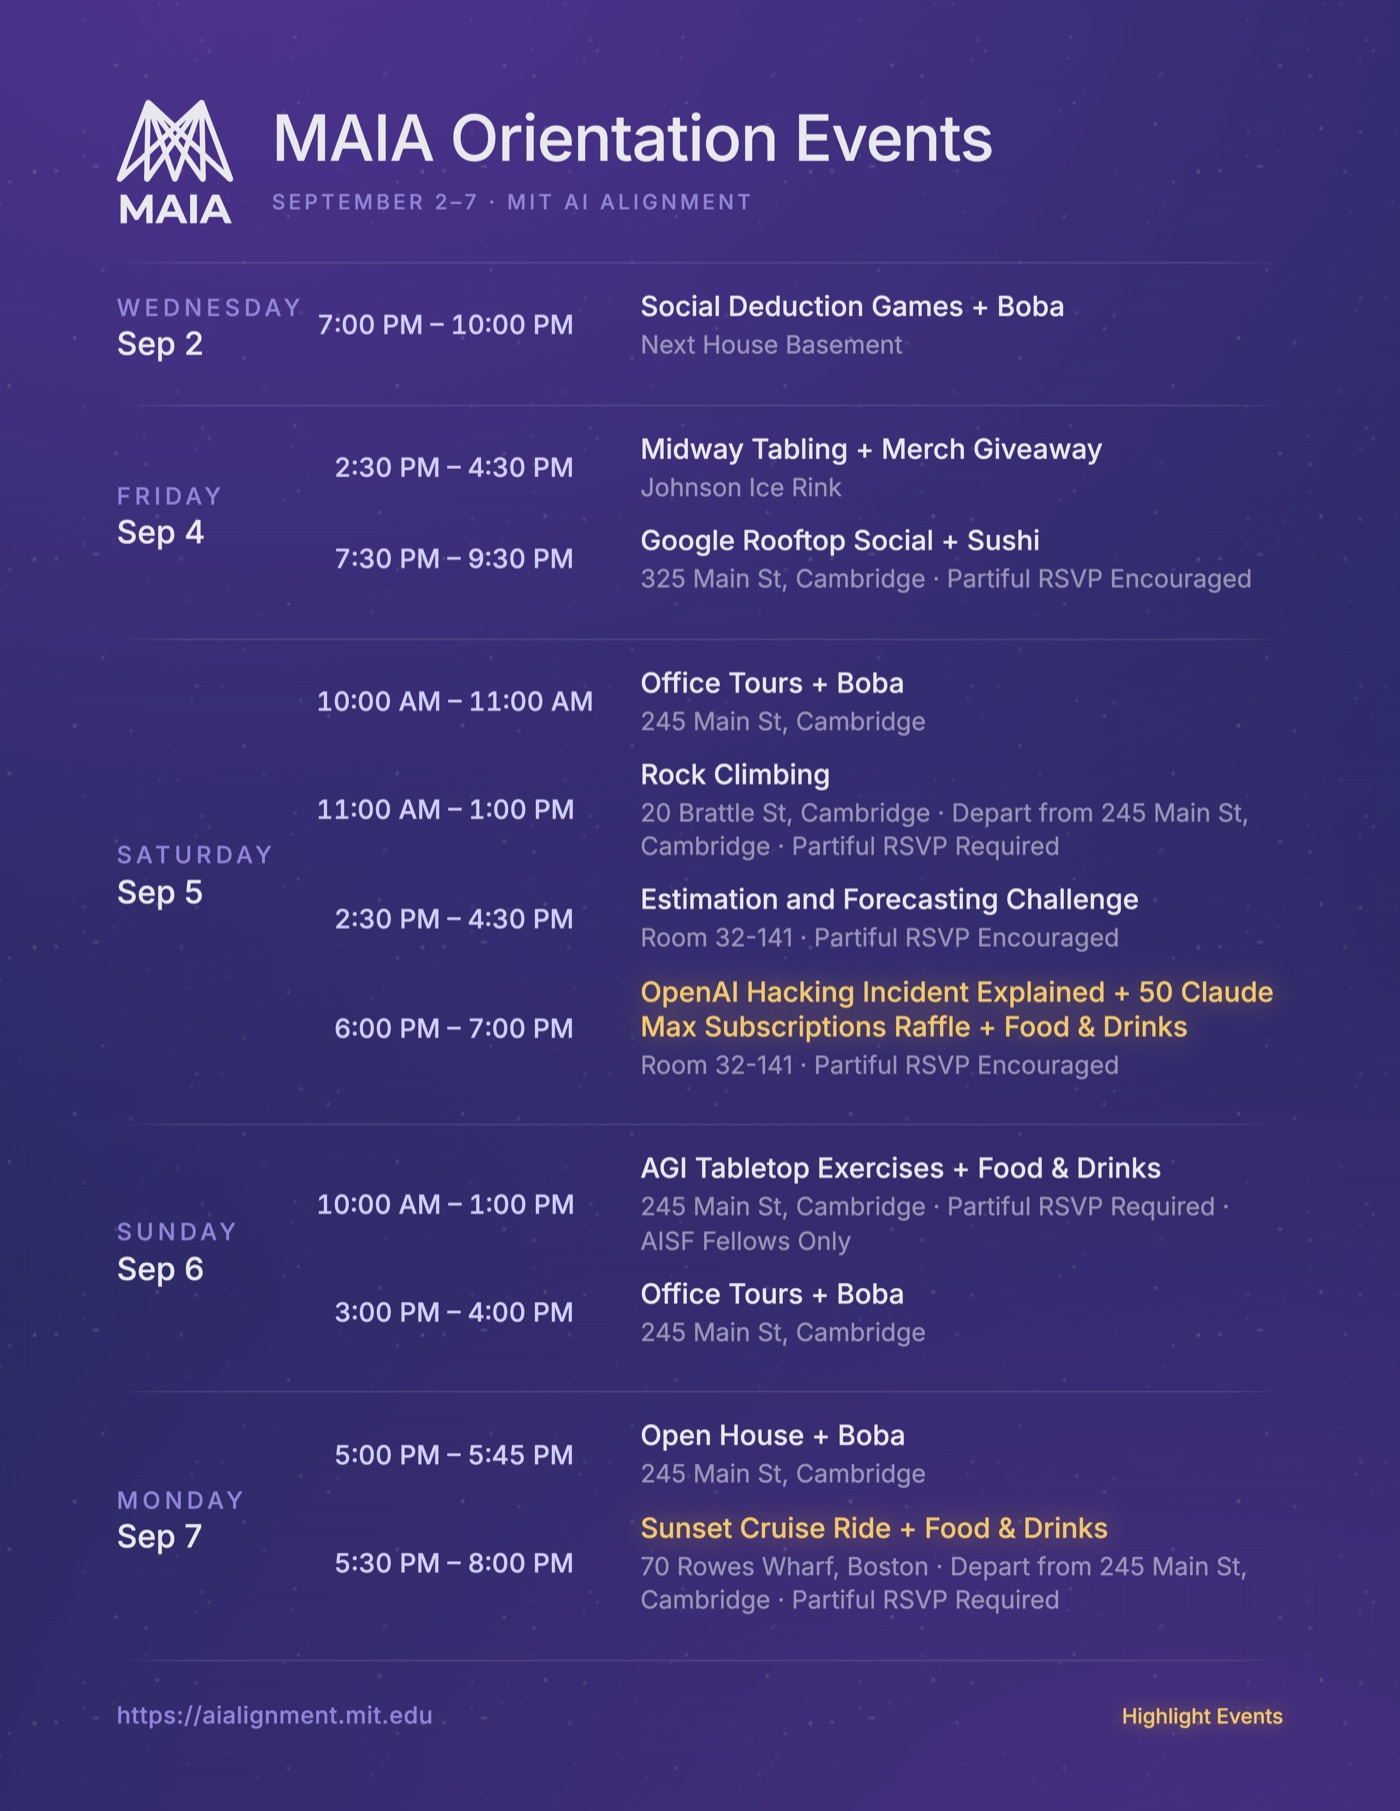
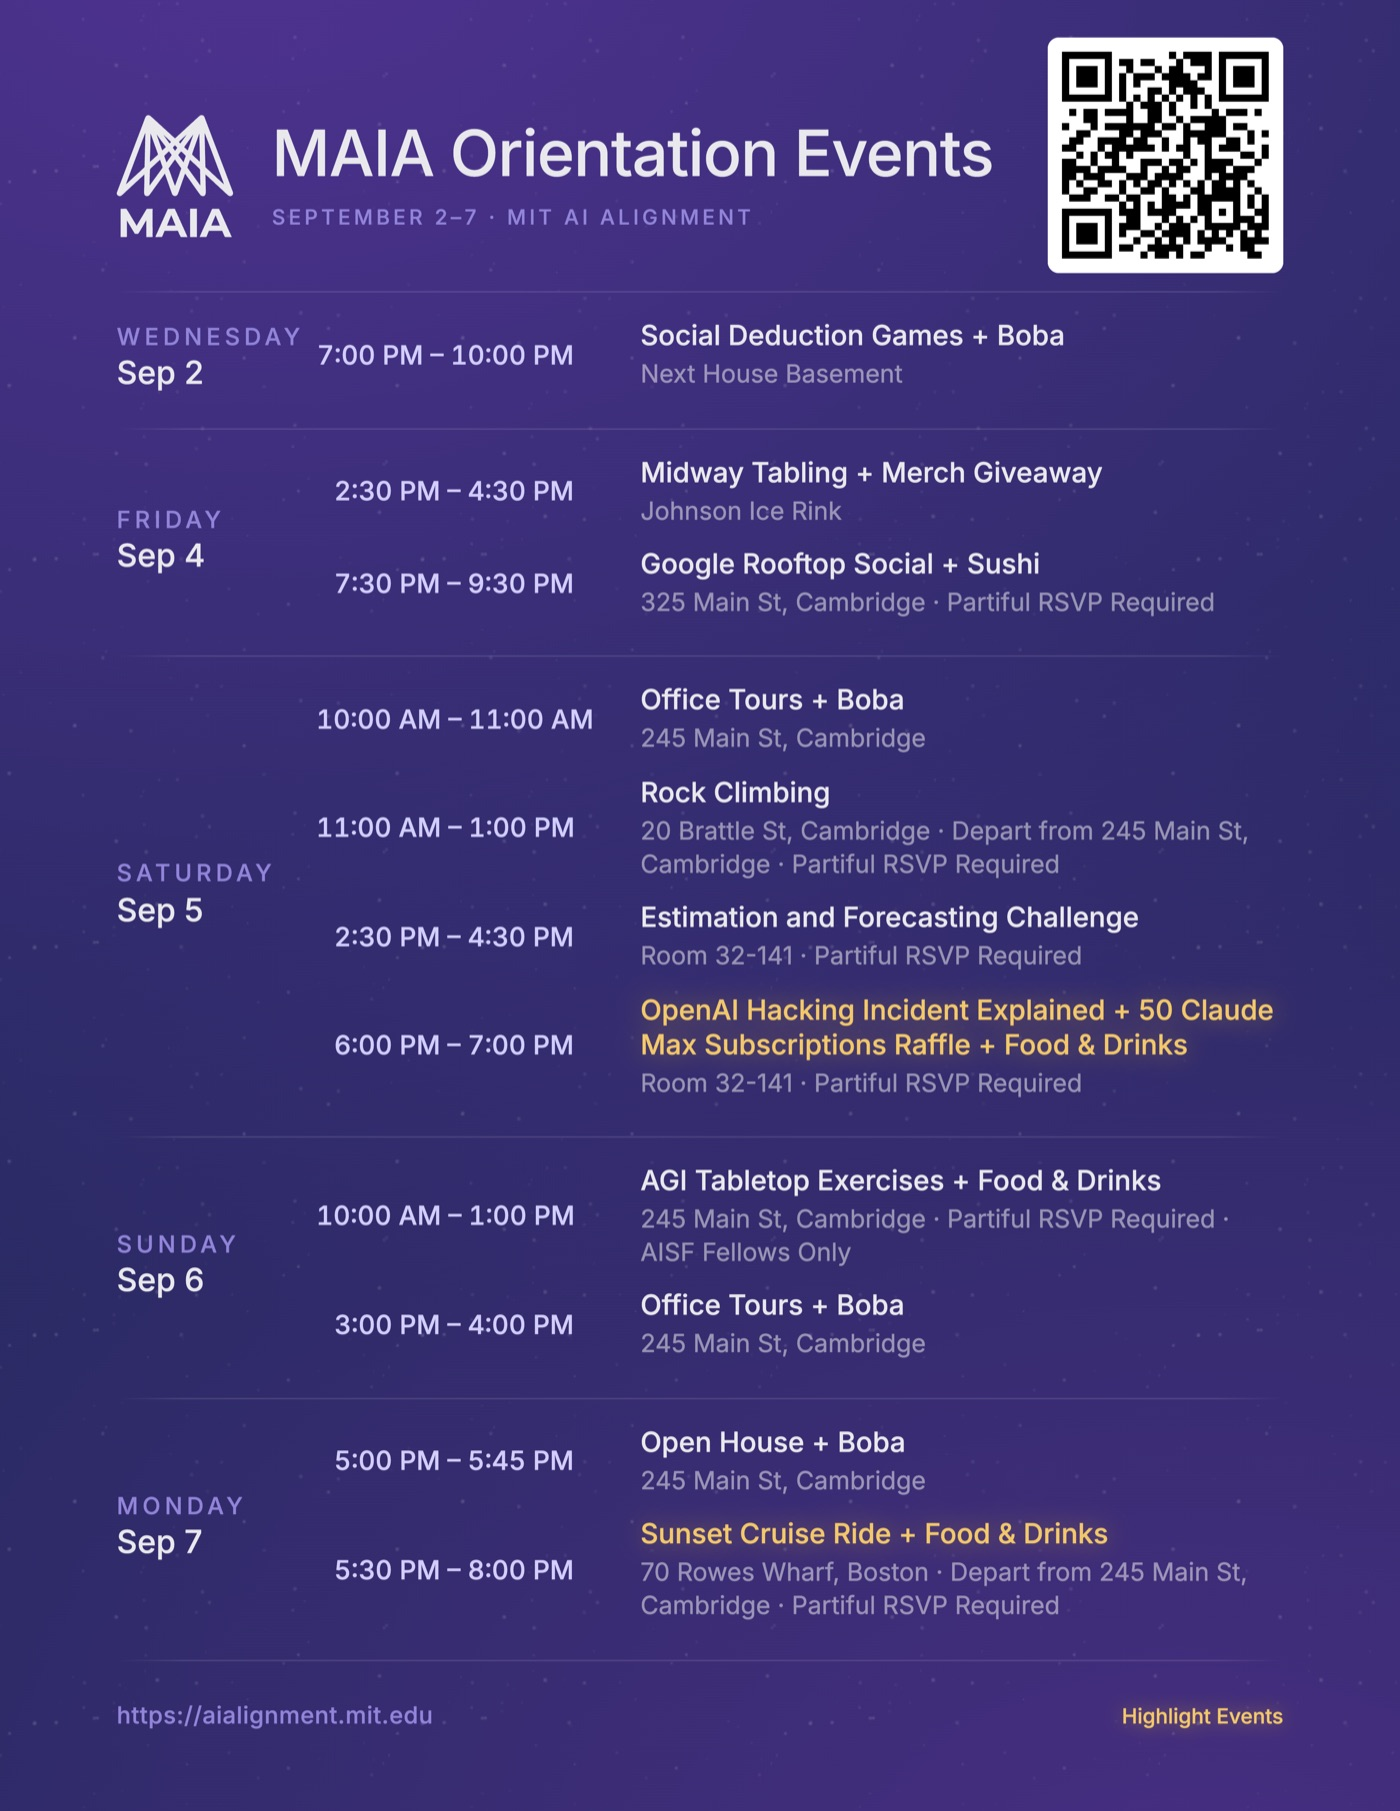
new flyer, rsvp required for everything

diff --git a/src/routes/orientation-2026/+page.svelte b/src/routes/orientation-2026/+page.svelte
@@ -12,7 +12,8 @@
 	const rsvpEvents = [
 		{
 			name: 'Google Rooftop Social',
-			href: 'https://partiful.com/e/z9BcsIsKg9lJ3OLqqqCv'
+			href: 'https://partiful.com/e/z9BcsIsKg9lJ3OLqqqCv',
+			note: '(RSVP Required to Attend)'
 		},
 		{
 			name: 'Rock Climbing',
@@ -21,11 +22,13 @@
 		},
 		{
 			name: 'Estimation and Forecasting Challenge',
-			href: 'https://partiful.com/e/l78vbKK6kExCPvVnvNPl?c=hBong26D'
+			href: 'https://partiful.com/e/l78vbKK6kExCPvVnvNPl?c=hBong26D',
+			note: '(RSVP Required to Attend)'
 		},
 		{
 			name: 'OpenAI Hacking Incident Explained',
-			href: 'https://partiful.com/e/MeP3Pu6eCsri65ml6MOQ'
+			href: 'https://partiful.com/e/MeP3Pu6eCsri65ml6MOQ',
+			note: '(RSVP Required to Attend)'
 		},
 		{
 			name: 'AGI Tabletop Exercises',
